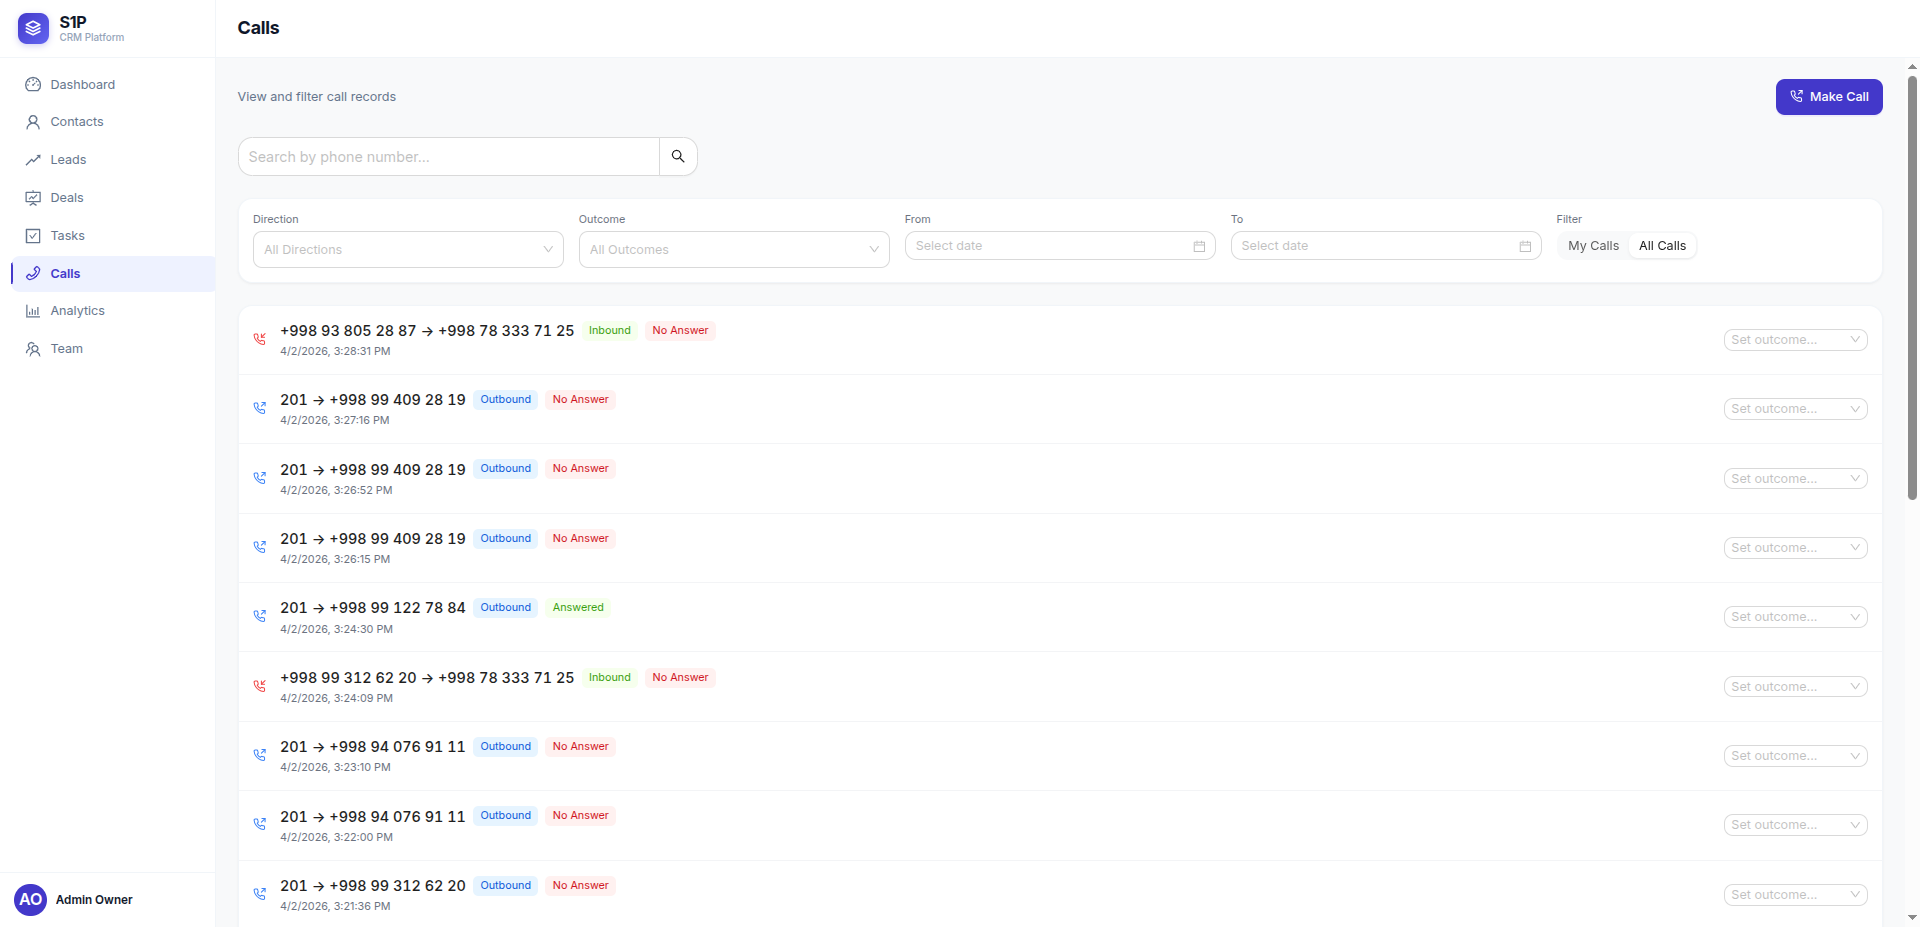
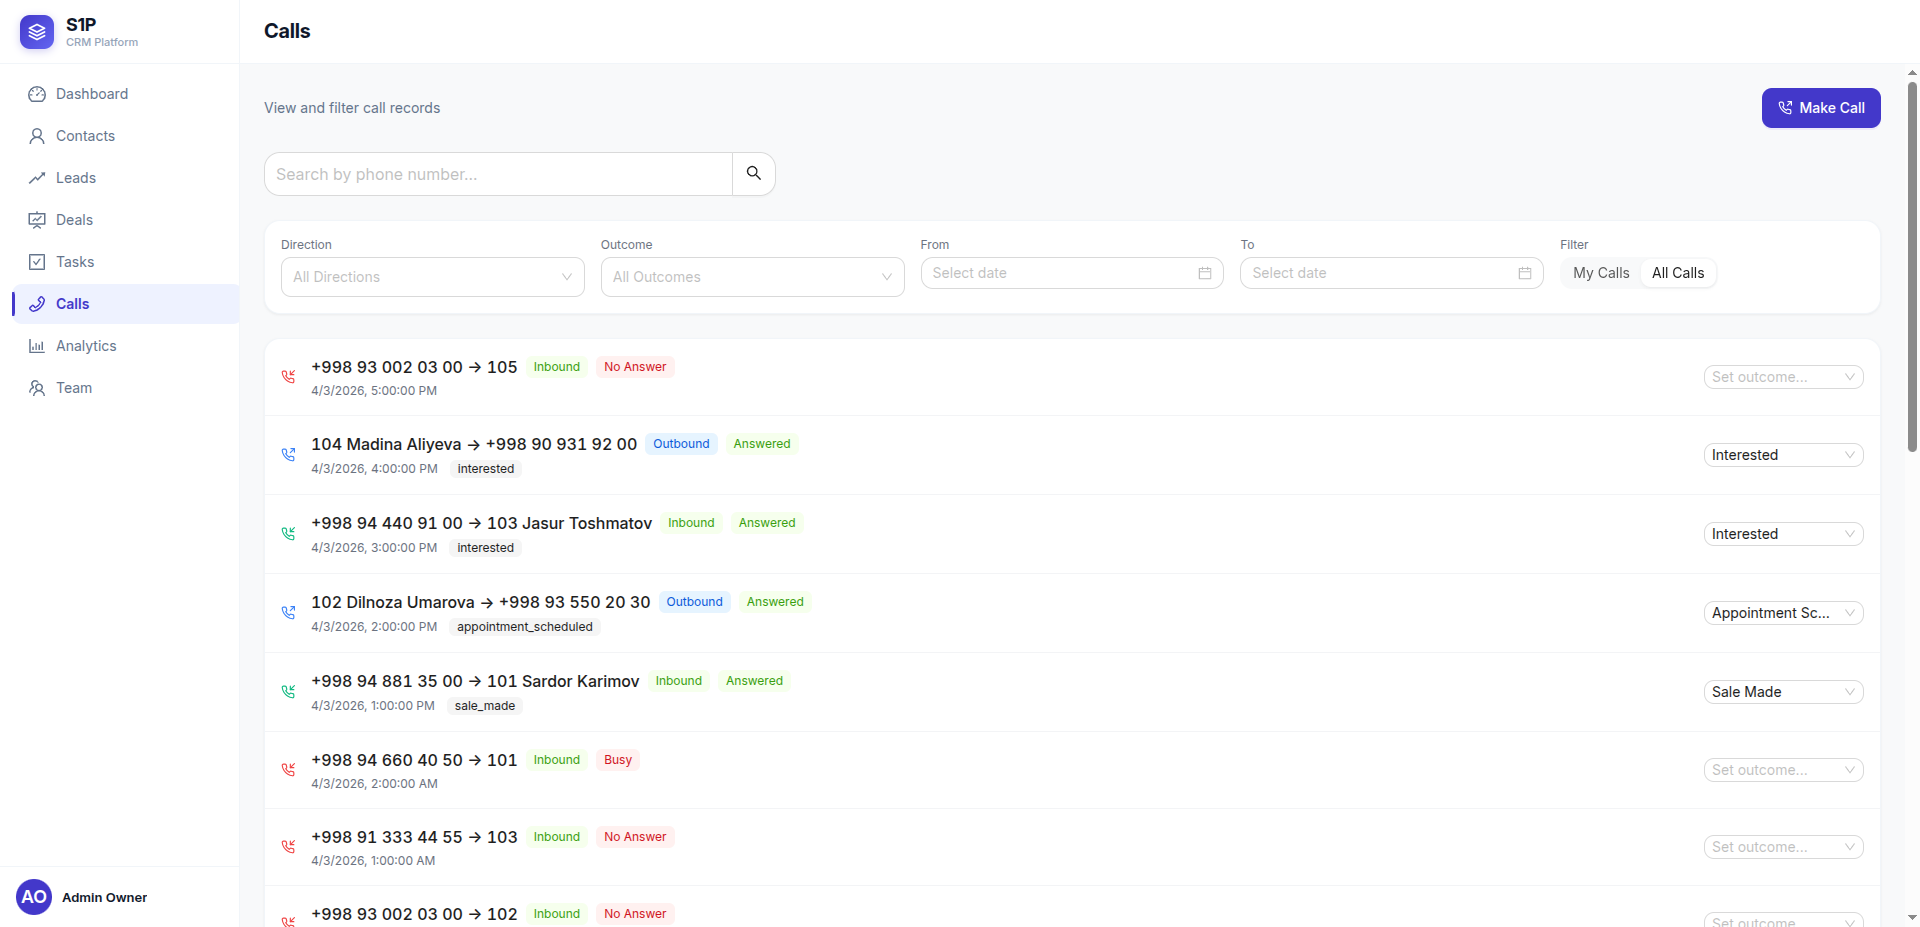
Replace screenshots with populated data

diff --git a/README.md b/README.md
@@ -14,14 +14,23 @@ Live at [s1p.uz](https://s1p.uz) · Backend: [s1p-backend](https://github.com/ra
 ### Dashboard
 <img src=".github/screenshots/dashboard.png" alt="Dashboard" width="800">
 
-### Calls
-<img src=".github/screenshots/calls.png" alt="Call History" width="800">
+### Contacts
+<img src=".github/screenshots/contacts.png" alt="Contacts" width="800">
+
+### Leads
+<img src=".github/screenshots/leads.png" alt="Leads" width="800">
 
 ### Deals Pipeline
 <img src=".github/screenshots/deals-pipeline.png" alt="Deals Pipeline" width="800">
 
-### Settings
-<img src=".github/screenshots/settings.png" alt="Settings" width="800">
+### Calls
+<img src=".github/screenshots/calls.png" alt="Calls" width="800">
+
+### Analytics
+<img src=".github/screenshots/analytics.png" alt="Analytics" width="800">
+
+### Team
+<img src=".github/screenshots/team.png" alt="Team" width="800">
 
 </details>
 
